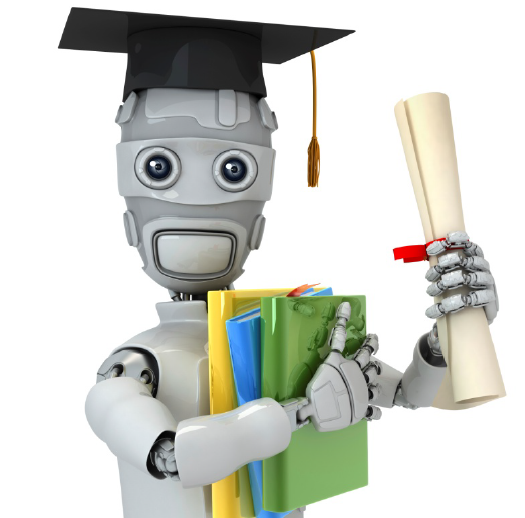
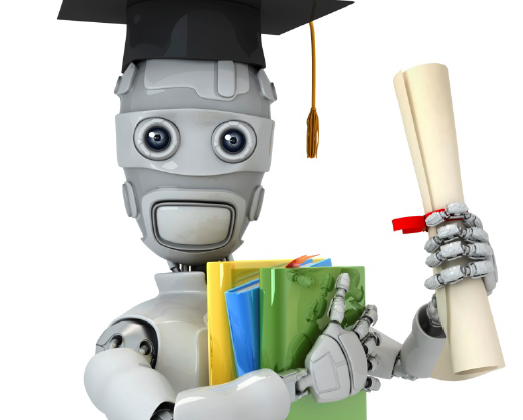
add new images

diff --git a/_projects/p5.md b/_projects/p5.md
@@ -1,0 +1,9 @@
+---
+layout: page
+title: Turkish Word Embeddings Repository
+description: This repository contains pre-trained word embeddings for Turkish, generated by comparing the performance of different embedding algorithms.
+img: assets/img/turkish-word-embedding.jpg
+redirect: https://github.com/Turkish-Word-Embeddings/Word-Embeddings-Repository-for-Turkish
+importance: 5
+category: work
+---

diff --git a/_archive/img_7.md b/_archive/img_7.md
@@ -1,0 +1,8 @@
+---
+layout: page
+title:  
+description: mockingbird
+img: assets/img/brothers.jpeg
+importance: 7
+category: photo
+---

diff --git a/_archive/img_8.md b/_archive/img_8.md
@@ -1,0 +1,8 @@
+---
+layout: page
+title:  
+description: freya
+img: assets/img/ev kedisi.jpg
+importance: 8
+category: photo
+---
